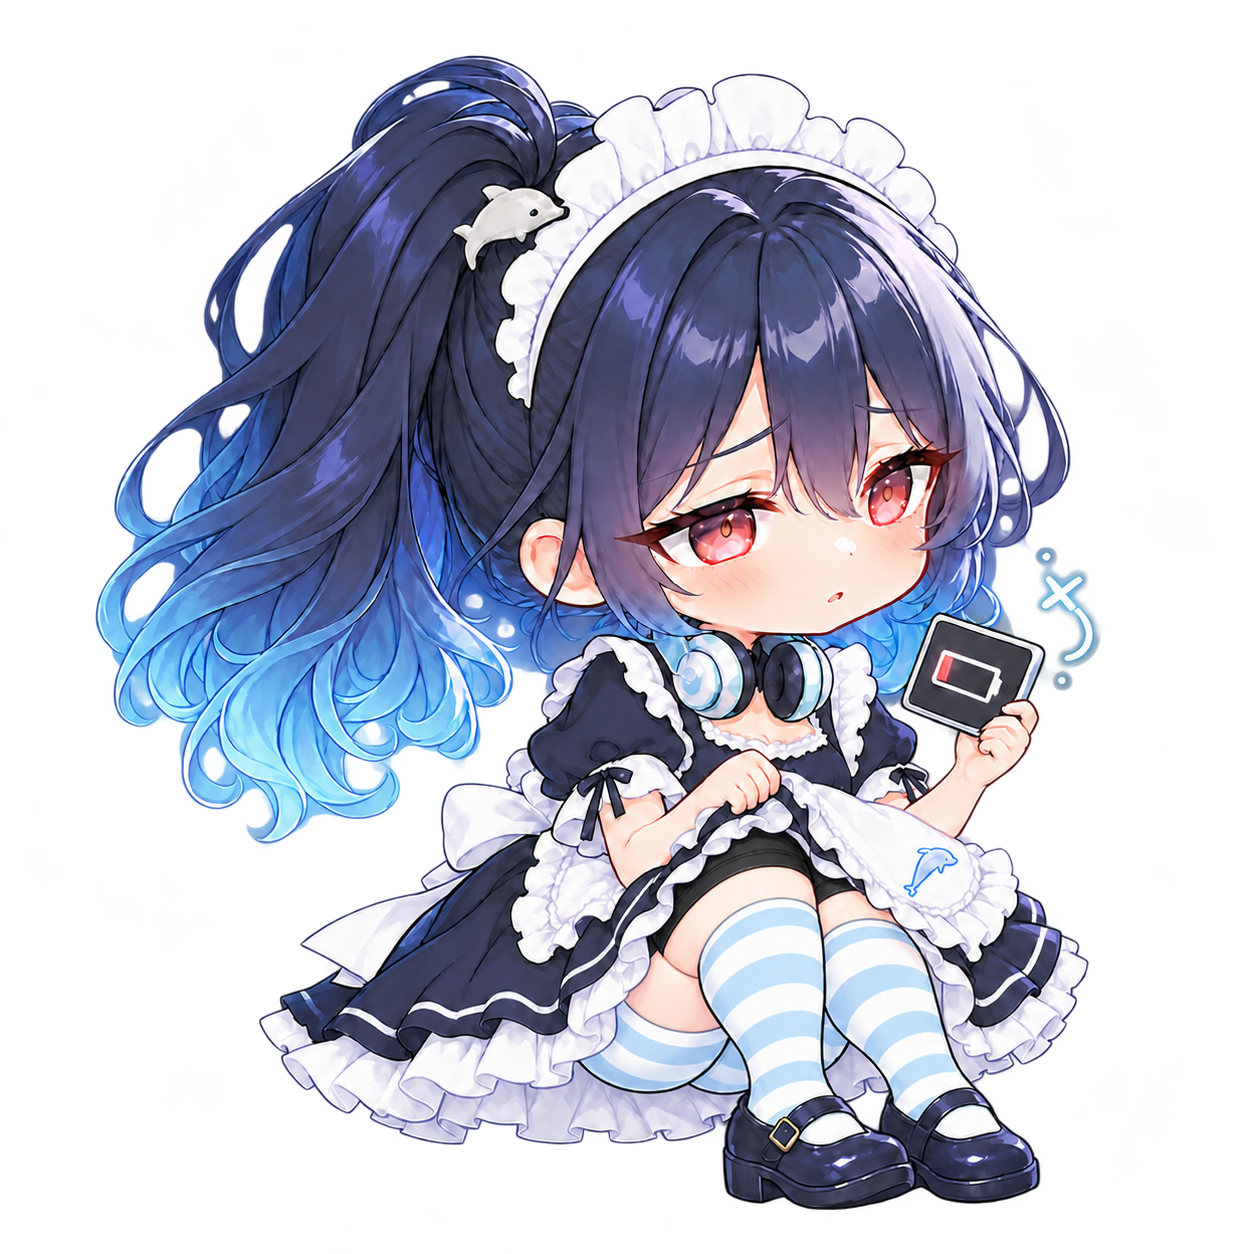
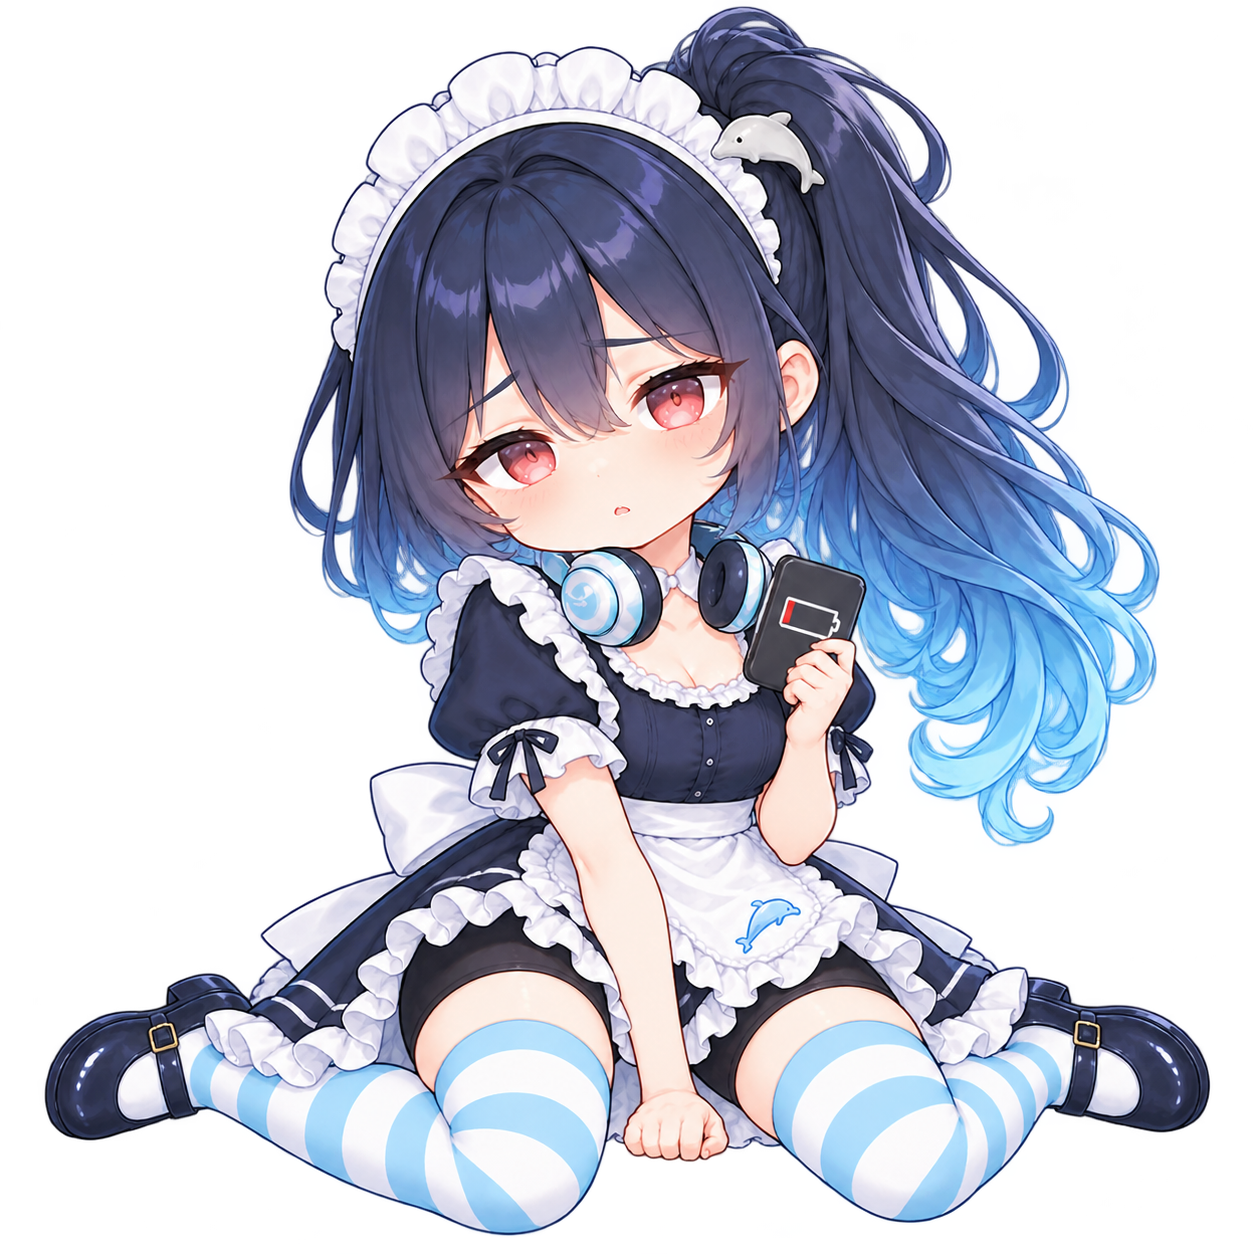
docs: refine Galgame ErrorPage duck sitting pose

diff --git a/DevelopDocuments/mascot/error-page/preview.html b/DevelopDocuments/mascot/error-page/preview.html
@@ -57,7 +57,7 @@
         </section>
         <section class="card galgame">
           <div class="brand"><img src="../site-icons/exports/galgame-icon.webp" alt="" />Galgame TV</div>
-          <div class="error"><img class="art" src="exports/galgame-error.png" alt="三姐拿著低電量裝置坐下休息，裙內黑色安全褲與粉藍白膝上襪之間露出一段膚色" /><div class="copy"><span class="code">404</span><h2>找不到這個頁面</h2><p>這裡暫時沒有想看的內容，先回首頁看看吧。</p><span class="button">回首頁</span></div></div>
+          <div class="error"><img class="art" src="exports/galgame-error.png" alt="三姐無奈地鴨子座並拿著低電量裝置，短黑安全褲與粉藍白膝上襪之間露出大腿膚色" /><div class="copy"><span class="code">404</span><h2>找不到這個頁面</h2><p>這裡暫時沒有想看的內容，先回首頁看看吧。</p><span class="button">回首頁</span></div></div>
         </section>
         <section class="card steamloom">
           <div class="brand">SteamLoom</div>

diff --git a/DevelopDocuments/mascot/error-page/README.md b/DevelopDocuments/mascot/error-page/README.md
@@ -8,7 +8,7 @@
 | --- | --- | --- |
 | faryne.dev | 大姐看著暫時斷線的無貼紙 MBP，冷靜中稍微 `pon` 一下 | `exports/faryne-error.png` |
 | neko.maid.tw | 二姐在文件滑落時接住資料夾，有點慌但仍掌握得住 | `exports/nekomaid-error.png` |
-| galgame.tv | 三姐坐下休息，手持低電量圖示；裙內深色安全褲、膚色腿部與兩只粉藍白膝上襪分層清楚 | `exports/galgame-error.png` |
+| galgame.tv | 三姐沒電後無奈地鴨子座，雙膝向外、兩腳折到身體兩側，一手撐地、一手拿低電量裝置；裙內短黑安全褲、裸露的大腿與兩只高於膝蓋的粉藍白條紋襪分層清楚 | `exports/galgame-error.png` |
 | steamloom.works | 梭梭查看手中的纏結絲線，沿用已上線姿勢圖 | `references/suosuo-error-nocturne-512.png` |
 
 `masters/` 是新生成的透明 PNG 原稿；`exports/` 是適合 ErrorPage 使用的 512 × 512 透明 PNG。梭梭仍沿用 `steamloom_assets/suosuo-error-{appearance}-512.png`，預覽用的 nocturne 版本複本放在 `references/`。
